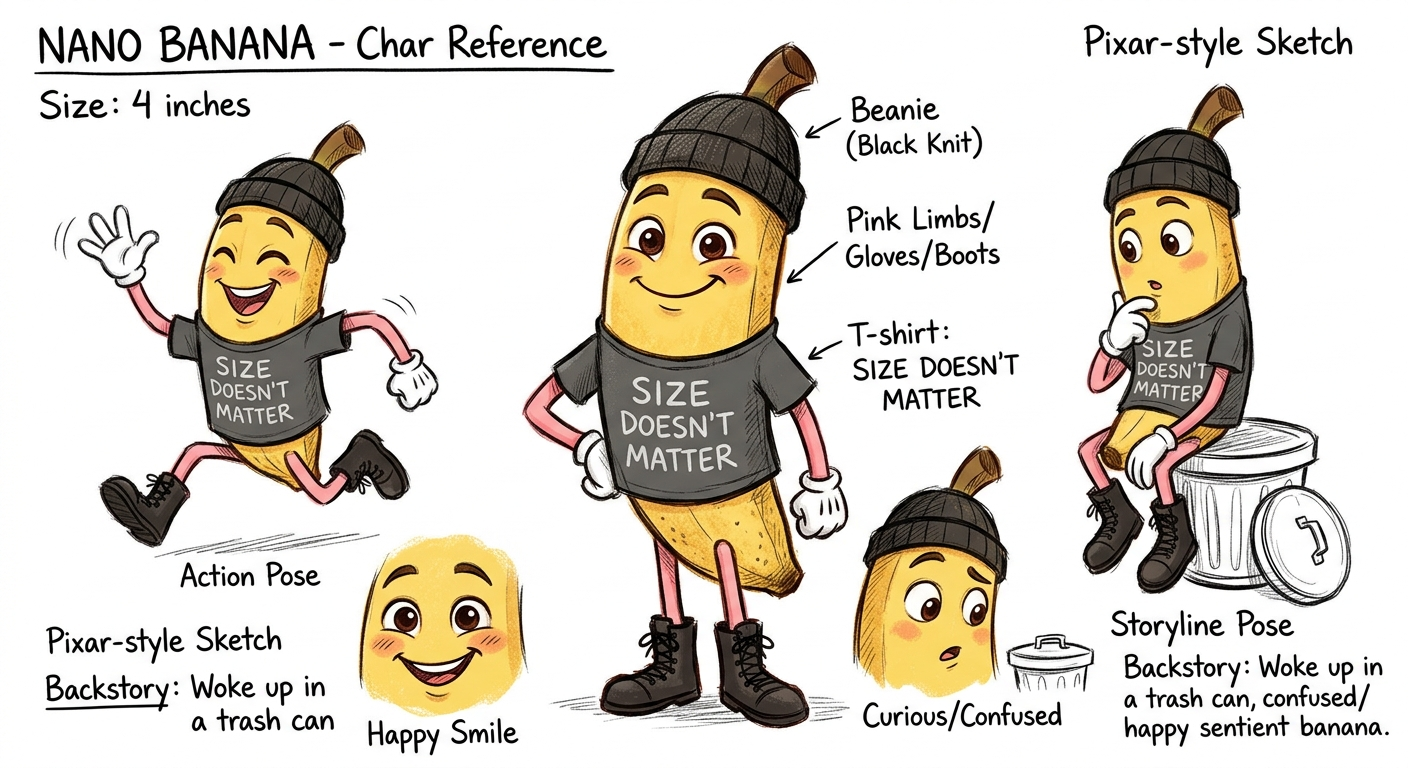
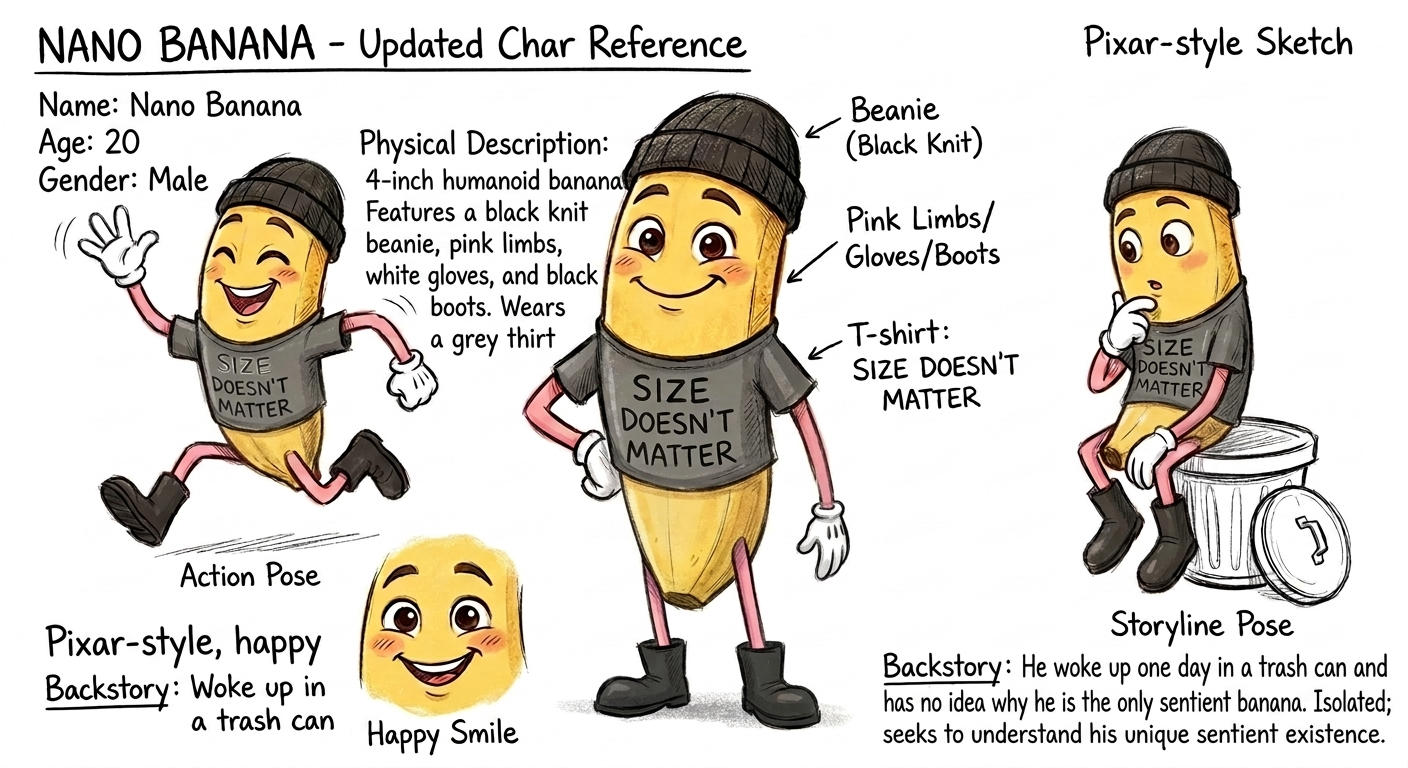
Adding functionality to character

diff --git a/backend/src/project/character.py b/backend/src/project/character.py
@@ -1,5 +1,6 @@
 from __future__ import annotations
 
+import shutil
 from enum import Enum
 from pathlib import Path
 from typing import TYPE_CHECKING, Optional
@@ -55,15 +56,64 @@ class Character(Base):
     def get(cls, session: Session, character_id: int) -> "Character | None":
         return session.get(cls, character_id)
 
-    def generate(self):
+    def delete(self, session: Session) -> None:
+        project: StoryBoardProject = self.storyboard_project
+        character_folder = Path("./uploads/projects", repr(project.id), "characters", repr(self.id))
+        if character_folder.exists():
+            shutil.rmtree(character_folder)
+        session.delete(self)
+        session.commit()
+
+    def add_physical_characteristics(self, session: Session, characteristics: str) -> "Character":
+        project: StoryBoardProject = self.storyboard_project
+        character_folder = Path("./uploads/projects", repr(project.id), "characters", repr(self.id))
+
+        # load existing images into memory before deleting
+        reference_images: list[bytes] = []
+        if character_folder.exists():
+            for f in sorted(character_folder.iterdir()):
+                if f.is_file():
+                    reference_images.append(f.read_bytes())
+            shutil.rmtree(character_folder)
+
+        self.physical_description = self.physical_description + ", " + characteristics
+        self.generate(reference_images=reference_images)
+        session.commit()
+        session.refresh(self)
+        return self
+
+    def edit_character(self, session: Session, **kwargs) -> "Character":
+        project: StoryBoardProject = self.storyboard_project
+        character_folder = Path("./uploads/projects", repr(project.id), "characters", repr(self.id))
+
+        # load existing images into memory before deleting
+        reference_images: list[bytes] = []
+        if character_folder.exists():
+            for f in sorted(character_folder.iterdir()):
+                if f.is_file():
+                    reference_images.append(f.read_bytes())
+            shutil.rmtree(character_folder)
+
+        for key, value in kwargs.items():
+            setattr(self, key, value)
+        self.generate(reference_images=reference_images)
+        session.commit()
+        session.refresh(self)
+        return self
+
+    def update(self, session: Session, **kwargs) -> "Character":
+        for key, value in kwargs.items():
+            setattr(self, key, value)
+        self.generate()
+        session.commit()
+        session.refresh(self)
+        return self
+
+    def generate(self, reference_images: list[bytes] | None = None):
         project: StoryBoardProject = self.storyboard_project
 
         character_folder = Path("./uploads/projects", repr(project.id), "characters", repr(self.id))
         character_folder.mkdir(exist_ok=True, parents=True)
-
-        # number the image based on how many already exist
-        existing = [f for f in character_folder.iterdir() if f.is_file()]
-        next_number = len(existing) + 1
 
         data = {
             "name": self.name,
@@ -77,15 +127,28 @@ class Character(Base):
         # strip None values
         data = {k: v for k, v in data.items() if v is not None}
 
-        prompt = (
-            "Generate a character reference image for a storyboard. "
-            "Draw this as a sketch illustration, no border or margin. "
-            "Based on this character description: " + repr(data)
-        )
+        if reference_images:
+            prompt = (
+                "Generate an updated character reference image for a storyboard. "
+                "Draw this as a sketch illustration, no border or margin. "
+                "Use the provided reference images to maintain visual consistency with the existing design. "
+                "Incorporate the following updated character description: " + repr(data)
+            )
+            contents = [
+                *[types.Part.from_bytes(data=img, mime_type="image/png") for img in reference_images],
+                prompt,
+            ]
+        else:
+            prompt = (
+                "Generate a character reference image for a storyboard. "
+                "Draw this as a sketch illustration, no border or margin. "
+                "Based on this character description: " + repr(data)
+            )
+            contents = [prompt]
 
         response = GEMINI_CLIENT.models.generate_content(
             model="gemini-3.1-flash-image-preview",
-            contents=[prompt],
+            contents=contents,
             config=types.GenerateContentConfig(
                 response_modalities=["IMAGE"],
             )
@@ -93,7 +156,7 @@ class Character(Base):
 
         for part in response.candidates[0].content.parts:
             if part.inline_data:
-                image_path = character_folder / f"{next_number}.png"
+                image_path = character_folder / "1.png"
                 image_path.write_bytes(part.inline_data.data)
                 self.image = str(image_path)
     

diff --git a/backend/main.py b/backend/main.py
@@ -2,7 +2,7 @@ from fastapi import FastAPI, HTTPException, status
 from sqlalchemy.orm import Session
 
 
-from src.pydantic_models import CharacterValidator, PanelValidator, StoryBoardProjectValidator
+from src.pydantic_models import CharacterValidator, PanelValidator, PhysicalCharacteristicsValidator, StoryBoardProjectValidator
 from src.shared import Base, SQL_ENGINE, SESSION_PRODUCER
 from src.project.storyboard_project import StoryBoardProject
 from src.project.character import Character
@@ -68,6 +68,84 @@ def create_character(project_id:int, character_json:CharacterValidator):
         character.generate()
 
         return CharacterValidator.model_validate(character)
+
+@APP.put("/project/{project_id}/character/{character_id}")
+def update_character(project_id:int, character_id:int, character_json:CharacterValidator):
+    with SESSION_PRODUCER() as ses:
+        character = Character.get(ses, character_id)
+
+        if not character:
+            raise HTTPException(
+                status_code=status.HTTP_404_NOT_FOUND,
+                detail="Character not found."
+            )
+
+        updates = character_json.model_dump(exclude_unset=True, exclude={"image"})
+        character.update(ses, **updates)
+
+        return CharacterValidator.model_validate(character)
+
+@APP.delete("/project/{project_id}/character/{character_id}")
+def delete_character(project_id:int, character_id:int):
+    with SESSION_PRODUCER() as ses:
+        character = Character.get(ses, character_id)
+
+        if not character:
+            raise HTTPException(
+                status_code=status.HTTP_404_NOT_FOUND,
+                detail="Character not found."
+            )
+
+        character.delete(ses)
+        return {"detail": "Character deleted."}
+
+@APP.patch("/project/{project_id}/character/{character_id}")
+def edit_character(project_id:int, character_id:int, character_json:CharacterValidator):
+    with SESSION_PRODUCER() as ses:
+        character = Character.get(ses, character_id)
+
+        if not character:
+            raise HTTPException(
+                status_code=status.HTTP_404_NOT_FOUND,
+                detail="Character not found."
+            )
+
+        updates = character_json.model_dump(exclude_unset=True, exclude={"image"})
+        character.edit_character(ses, **updates)
+
+        return CharacterValidator.model_validate(character)
+
+@APP.patch("/project/{project_id}/character/{character_id}/physical")
+def add_physical_characteristics(project_id:int, character_id:int, body:PhysicalCharacteristicsValidator):
+    with SESSION_PRODUCER() as ses:
+        character = Character.get(ses, character_id)
+
+        if not character:
+            raise HTTPException(
+                status_code=status.HTTP_404_NOT_FOUND,
+                detail="Character not found."
+            )
+
+        character.add_physical_characteristics(ses, body.characteristics)
+
+        return CharacterValidator.model_validate(character)
+
+@APP.put("/project/{project_id}/panel/{panel_id}")
+def update_panel(project_id:int, panel_id:int, panel_json:PanelValidator):
+    with SESSION_PRODUCER() as ses:
+        panel = ses.get(Panel, panel_id)
+
+        if not panel:
+            raise HTTPException(
+                status_code=status.HTTP_404_NOT_FOUND,
+                detail="Panel not found."
+            )
+
+        updates = panel_json.model_dump(exclude_unset=True, exclude={"image"})
+        character_ids = updates.pop("character_ids", None)
+        panel.update(ses, character_ids=character_ids, **updates)
+
+        return PanelValidator.model_validate(panel)
 
 @APP.post("/project/{project_id}/panel")
 def create_panel(project_id:int, panel_json:PanelValidator):

diff --git a/backend/src/project/panel.py b/backend/src/project/panel.py
@@ -88,6 +88,19 @@ class Panel(Base):
         session.commit()
         return panel
     
+    def update(self, session: Session, character_ids: list[int] | None = None, **kwargs) -> "Panel":
+        for key, value in kwargs.items():
+            setattr(self, key, value)
+
+        if character_ids is not None:
+            stmt = select(Character).where(Character.id.in_(character_ids))
+            self.characters = list(session.scalars(stmt).all())
+
+        self.generate()
+        session.commit()
+        session.refresh(self)
+        return self
+
     def get(self, session:Session, where_clause:ColumnExpressionArgument[bool]) -> Sequence["StoryBoardProject"]:
         stmt = select(Panel) \
             .options(selectinload(StoryBoardProject.characters), selectinload(StoryBoardProject.panels)) \

diff --git a/backend/src/pydantic_models.py b/backend/src/pydantic_models.py
@@ -12,6 +12,9 @@ class CharacterValidator(BaseModel):
     back_story:Optional[str] = None
     image:Optional[str] = None
 
+class PhysicalCharacteristicsValidator(BaseModel):
+    characteristics: str
+
 class PanelValidator(BaseModel):
     model_config = ConfigDict(from_attributes=True)
     sequence:int
